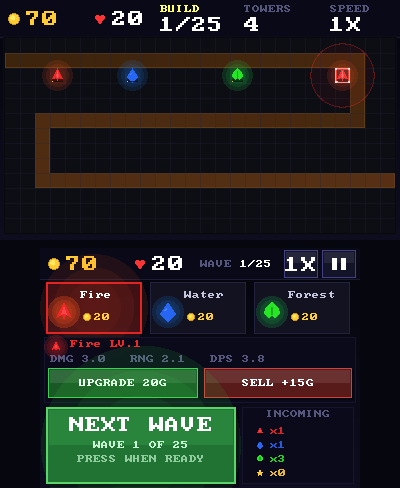
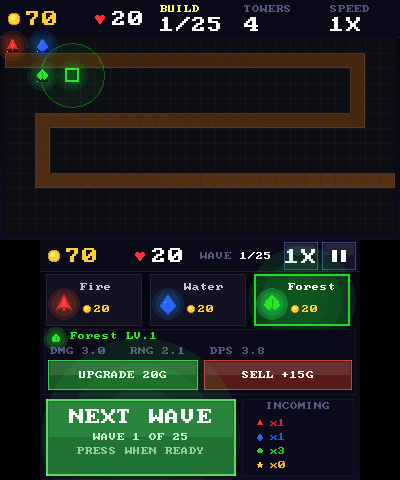
readme: use actual emulator screenshots instead of the preview harness ones

diff --git a/README.md b/README.md
@@ -35,6 +35,9 @@ you can build as long as you like before calling the next one in.
 
 ## Screenshots
 
+Straight out of Azahar (top screen on top, touchscreen below). These are from the CI-built `.3dsx`, so
+they're what the release actually looks like.
+
 | Menu | Build phase | Wave in progress |
 |---|---|---|
 | ![menu](docs/screenshots/menu.png) | ![build phase](docs/screenshots/build.png) | ![combat](docs/screenshots/wave.png) |
